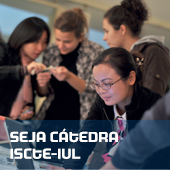
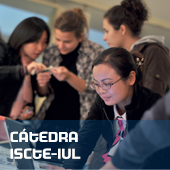
.DS_Store banished!

Changed region(s): [[0.0588, 0.7353, 0.7059, 0.8529]]

diff --git a/css/custom.css b/css/custom.css
@@ -1,7 +1,7 @@
 html,
 body { 
     height: 100%;
-    font-family: morgansansregular; }
+    font-family: Verdana; }
 #wrap {
   min-height: 100%;
   height: auto !important;
@@ -12,6 +12,7 @@ body {
 #push,
 #footer {
   max-height: 36px;
+  min-height: 33px;
 }
 #wrap > .container {
   padding-top: 5px;
@@ -28,14 +29,24 @@ body {
   }
 }
 .header, #footer {
-    background-color: #999999;
+    background-color: #cbcbcb;
     font-family: morganbigregular;
     font-size: 13px
+}
+.navbar-default {
+    background-color: #cbcbcb;
+}
+.navbar {
+border-radius: 0;
+margin-bottom: 7px;
+line-height: 1;
+}
+.nav > li > a {
+padding: 10px 10px;
 }
 a {
     color: #006699
 }
-/* start of modification for 5 columns */
 .fivecolumns {
   padding:0px;
 }
@@ -61,6 +72,18 @@ a {
     .fivecolumns .col-lg-3 {
         width: 60%;
         *width: 60%;
+        padding-left:3px;
+        padding-right:3px;
+    }
+    .fivecolumns .col-md-4 {
+        width: 80%;
+        *width: 80%;
+        padding-left:3px;
+        padding-right:3px;
+    }
+    .fivecolumns .col-lg-4 {
+        width: 80%;
+        *width: 80%;
         padding-left:3px;
         padding-right:3px;
     }
@@ -90,6 +113,18 @@ a {
         padding-left:3px;
         padding-right:3px;
     }
+    .fivecolumns .col-md-4 {
+        width: 80%;
+        *width: 80%;
+        padding-left:3px;
+        padding-right:3px;
+    }
+    .fivecolumns .col-lg-4 {
+        width: 80%;
+        *width: 80%;
+        padding-left:3px;
+        padding-right:3px;
+    }
 }
 @media (min-width: 768px) and (max-width: 979px) {
     .fivecolumns .col-lg-2 {
@@ -113,6 +148,18 @@ a {
     .fivecolumns .col-lg-3 {
         width: 60%;
         *width: 60%;
+        padding-left:3px;
+        padding-right:3px;
+    }
+    .fivecolumns .col-md-4 {
+        width: 80%;
+        *width: 80%;
+        padding-left:3px;
+        padding-right:3px;
+    }
+    .fivecolumns .col-lg-4 {
+        width: 80%;
+        *width: 80%;
         padding-left:3px;
         padding-right:3px;
     }

diff --git a/css/bootstrap.css b/css/bootstrap.css
@@ -406,10 +406,6 @@ p {
   }
 }
 
-small {
-  font-size: 85%;
-}
-
 cite {
   font-style: normal;
 }

diff --git a/header.php b/header.php
@@ -55,11 +55,11 @@
         <div class="col-lg-9 col-md-11 col-sm-12 center text-center" >
         <a href="/"><img src="img/logo.jpg" class="img-responsive"></a>
 
-    <div class="row" style="margin-left:0;margin-right:0;">
-    <div class="col-lg-8 col-md-8 col-sm-10 text-left" style="color:#006699;padding-left:0px;padding-right:0px;padding-top:0px;">
-    <em><big>Unidade de Alumni &amp; Fundraising</big></em>
+    <div class="row" style="margin-left:0;padding:7.5px 0;">
+    <div class="col-lg-8 col-md-8 col-sm-8 col-xs-12 text-left" style="color:#006699;padding-left:0px;">
+    <span style="font: italic bold 17px MorganSansBoldOblique;" >Unidade de Alumni &amp; Fundraising</span>
     </div>
-    <div class="col-lg-4 col-md-4 col-sm-2 text-right" style="padding-left:0px;padding-right:0px;padding-top:0px;">
+    <div class="col-lg-4 col-md-4 col-sm-4 col-xs-12 text-right" style="padding-left:0px;padding-right:0px;">
     <a href="https://www.facebook.com/ISCTEIUL"><img src="img/icones/facebook.jpg" alt="facebook"></a>
     <a href="http://www.flickr.com/photos/iscteiul/"><img src="img/icones/flickr.jpg" alt="flickr"></a>
     <a href="http://www.linkedin.com/company/iscte-iul"><img src="img/icones/linkedin.jpg" alt="linkedin"></a>
@@ -69,25 +69,25 @@
 
 
     <div class="navbar navbar-default">
-      <div class="navbar-header.php">
+      <div class="navbar-header">
         <button type="button" class="navbar-toggle" data-toggle="collapse" data-target=".navbar-collapse">
           <span class="icon-bar"></span>
           <span class="icon-bar"></span>
           <span class="icon-bar"></span>
         </button>
       </div>
-      <div class="navbar-collapse collapse">
+      <div class="navbar-collapse collapse" style="font-size:85%" >
         <ul class="nav nav-justified">
-          <li><a href="nossa-missao">A nossa miss&atilde;o</a></li>
-          <li><a href="network">Network Comunity</a></li>
-          <li><a href="catedra">Projeto C&aacute;tedra</a></li>
-          <li><a target="_blank" href="http://responsavel.iscte-iul.pt/">IUL Respons&aacute;vel</a></li>
-          <li><a href="#">Como ajudar-nos?</a></li>
+          <li><a href="nossa-missao">A NOSSA MISS&Atilde;O</a></li>
+          <li><a href="network">NETWORK COMMUNITY</a></li>
+          <li><a href="catedra">C&Aacute;TEDRA ISCTE-IUL</a></li>
+          <li><a target="_blank" href="http://responsavel.iscte-iul.pt/">IUL RESPONS&Aacute;VEL</a></li>
+          <li><a href="#">COMO APOIAR-NOS?</a></li>
         </ul>
       </div><!--/.nav-collapse -->
     </div>
 
-    <div class="col-lg-12 col-md-12 col-sm-12 center text-center" style="padding: 5px 0 5px 0 ">
+    <div class="col-lg-12 col-md-12 col-sm-12 center text-center" style="padding: 0 0 5px 0 ">
 
         <div id="carousel-example-generic" class="carousel slide">
 

diff --git a/footer.php b/footer.php
@@ -1,31 +1,27 @@
 <div id="footer">
-      <div class="container" style="padding-top:5px;">
-        <div class="row" >
-          <div class="col-lg-9 col-md-11 col-sm-12 center" >
-          <div class="row" style="padding-top:3px;">
-            <div class="col-lg-4 col-md-4 col-sm-2 text-right">  
-              <p class="text-muted credit"><a><small>AV. DAS FOR&Ccedil;AS ARMADAS, 1649-026 LISBOA</small></a></p>
-            </div>
-            <div class="col-lg-4 col-md-4 col-sm-2 text-center">  
-              <p class="text-muted credit"><a><small>2123456789</small></a></p>
-            </div>
-            <div class="col-lg-4 col-md-4 col-sm-2 text-left">  
-              <p class="text-muted credit"><small><a href="#contact">APOIOS@ISCTE.PT</a></small></p>
-            </div>
-          </div>
+  <div class="container" style="padding-top:8px;">
+    <div class="col-lg-9 col-md-11 col-sm-12 center text-center" style="padding-left:0px;padding-right:0px;padding-top:0px;">
+      <div class="row fivecolumns" style="margin:0px;">
+        <div class="col-lg-4 col-md-4 text-right">
+            <a style="padding-right:35px"><small><span style="background:url(img/icones/pin.png);min-height: 20px;min-width: 20px;z-index: 400;position: absolute;margin-left: -20px;" ></span>
+            <strong>AV. DAS FOR&Ccedil;AS ARMADAS, 1649-026 LISBOA</strong></small></a>
+            <a style="padding-right:35px"><small><span style="background:url(img/icones/phone.png);min-height: 20px;min-width: 20px;z-index: 400;position: absolute;margin-left: -20px;" ></span>
+            <strong>2123456789</strong></small></a>
+            <span style="background:url(img/icones/mail.png);min-height: 20px;min-width: 20px;z-index: 400;position: absolute;margin-left: -20px;" ></span>
+            <a href="mailto:apoios@iscte.pt"><small><strong>APOIOS@ISCTE.PT</strong></small></a>&nbsp;&nbsp;&nbsp;
         </div>
-       </div>
       </div>
     </div>
-    
+  </div>
+</div>
 
-    <script src="//ajax.googleapis.com/ajax/libs/jquery/1.10.2/jquery.min.js"></script>
-    <script src="js/bootstrap.js"></script>
-    <script type="text/javascript">
-      $('.carousel').carousel({
-        interval: 3000
-      })
-    </script>
+  <script src="//ajax.googleapis.com/ajax/libs/jquery/1.10.2/jquery.min.js"></script>
+  <script src="js/bootstrap.js"></script>
+  <script type="text/javascript">
+    $('.carousel').carousel({
+      interval: 5000
+    })
+  </script>
 
   </body>
 </html>

diff --git a/index.php b/index.php
@@ -5,24 +5,24 @@
 
     <div class="col-lg-12 col-md-12 col-sm-6" style="padding-left:0px;padding-right:0px;padding-top:0px;">
 
-    <div class="row fivecolumns" style="margin:0px;">
-    <div class="col-lg-2 col-md-2" style="padding-left:0;">
+    <div class="row fivecolumns" style="margin:0px;font-size: 85%;">
+    <div class="col-lg-2 col-md-2" style="padding-left:0;padding-right:4px;">
         <a href="network"><img class="img-responsive" src="img/quadrados/quadrado4.jpg" ></a>
         <p style="text-align:justify;padding:3px">O ISCTE-IUL NETWORK COMMUNITY &eacute; uma comunidade composta por todos aqueles que de alguma forma influenciaram e foram influenciados pelo ISCTE-IUL.</p>
     </div>
-    <div class="col-lg-2 col-md-2">
+    <div class="col-lg-2 col-md-2" style="padding-left:1px;padding-right:3px;">
         <a href="catedra"><img class="img-responsive" src="img/quadrados/quadrado1.jpg" ></a>
         <p style="text-align:justify;padding:3px">Uma c&aacute;tedra &eacute; um meio de promover o desenvolvimento de investiga&ccedil;&atilde;o e/ou ensino num tema a definir pelo mecenas.</p>
     </div>
-    <div class="col-lg-2 col-md-2">
+    <div class="col-lg-2 col-md-2" style="padding-left:2px;padding-right:2px;">
         <a target="_blank" href="http://responsavel.iscte-iul.pt/"><img class="img-responsive" src="img/quadrados/quadrado2.jpg" ></a>
         <p style="text-align:justify;padding:3px">O grupo ISCTE-IUL Respons&aacute;vel convida-o a conhecer e a fazer parte dos nossos projetos de voluntariado.</p>
     </div>
-    <div class="col-lg-2 col-md-2">
+    <div class="col-lg-2 col-md-2" style="padding-left:3px;padding-right:1px;">
         <a target="_blank" href="http://muralsolidario.iscte-iul.pt/"><img class="img-responsive" src="img/quadrados/quadrado3.jpg" ></a>
         <p style="text-align:justify;padding:3px">Conhe&ccedil;a a nossa causa solid&aacute;ria em prol dos nossos alunos mais carenciados.</p>
     </div>
-    <div class="col-lg-2 col-md-2" style="padding-right:0;" >
+    <div class="col-lg-2 col-md-2" style="padding-left:4px;padding-right:0;" >
         <a href="quem-nos-apoia"><img class="img-responsive" src="img/quadrados/quadrado0.jpg" ></a>
         <p style="text-align:justify;padding:3px">Como apoiar o ISCTE-IUL?</p>
     </div>
